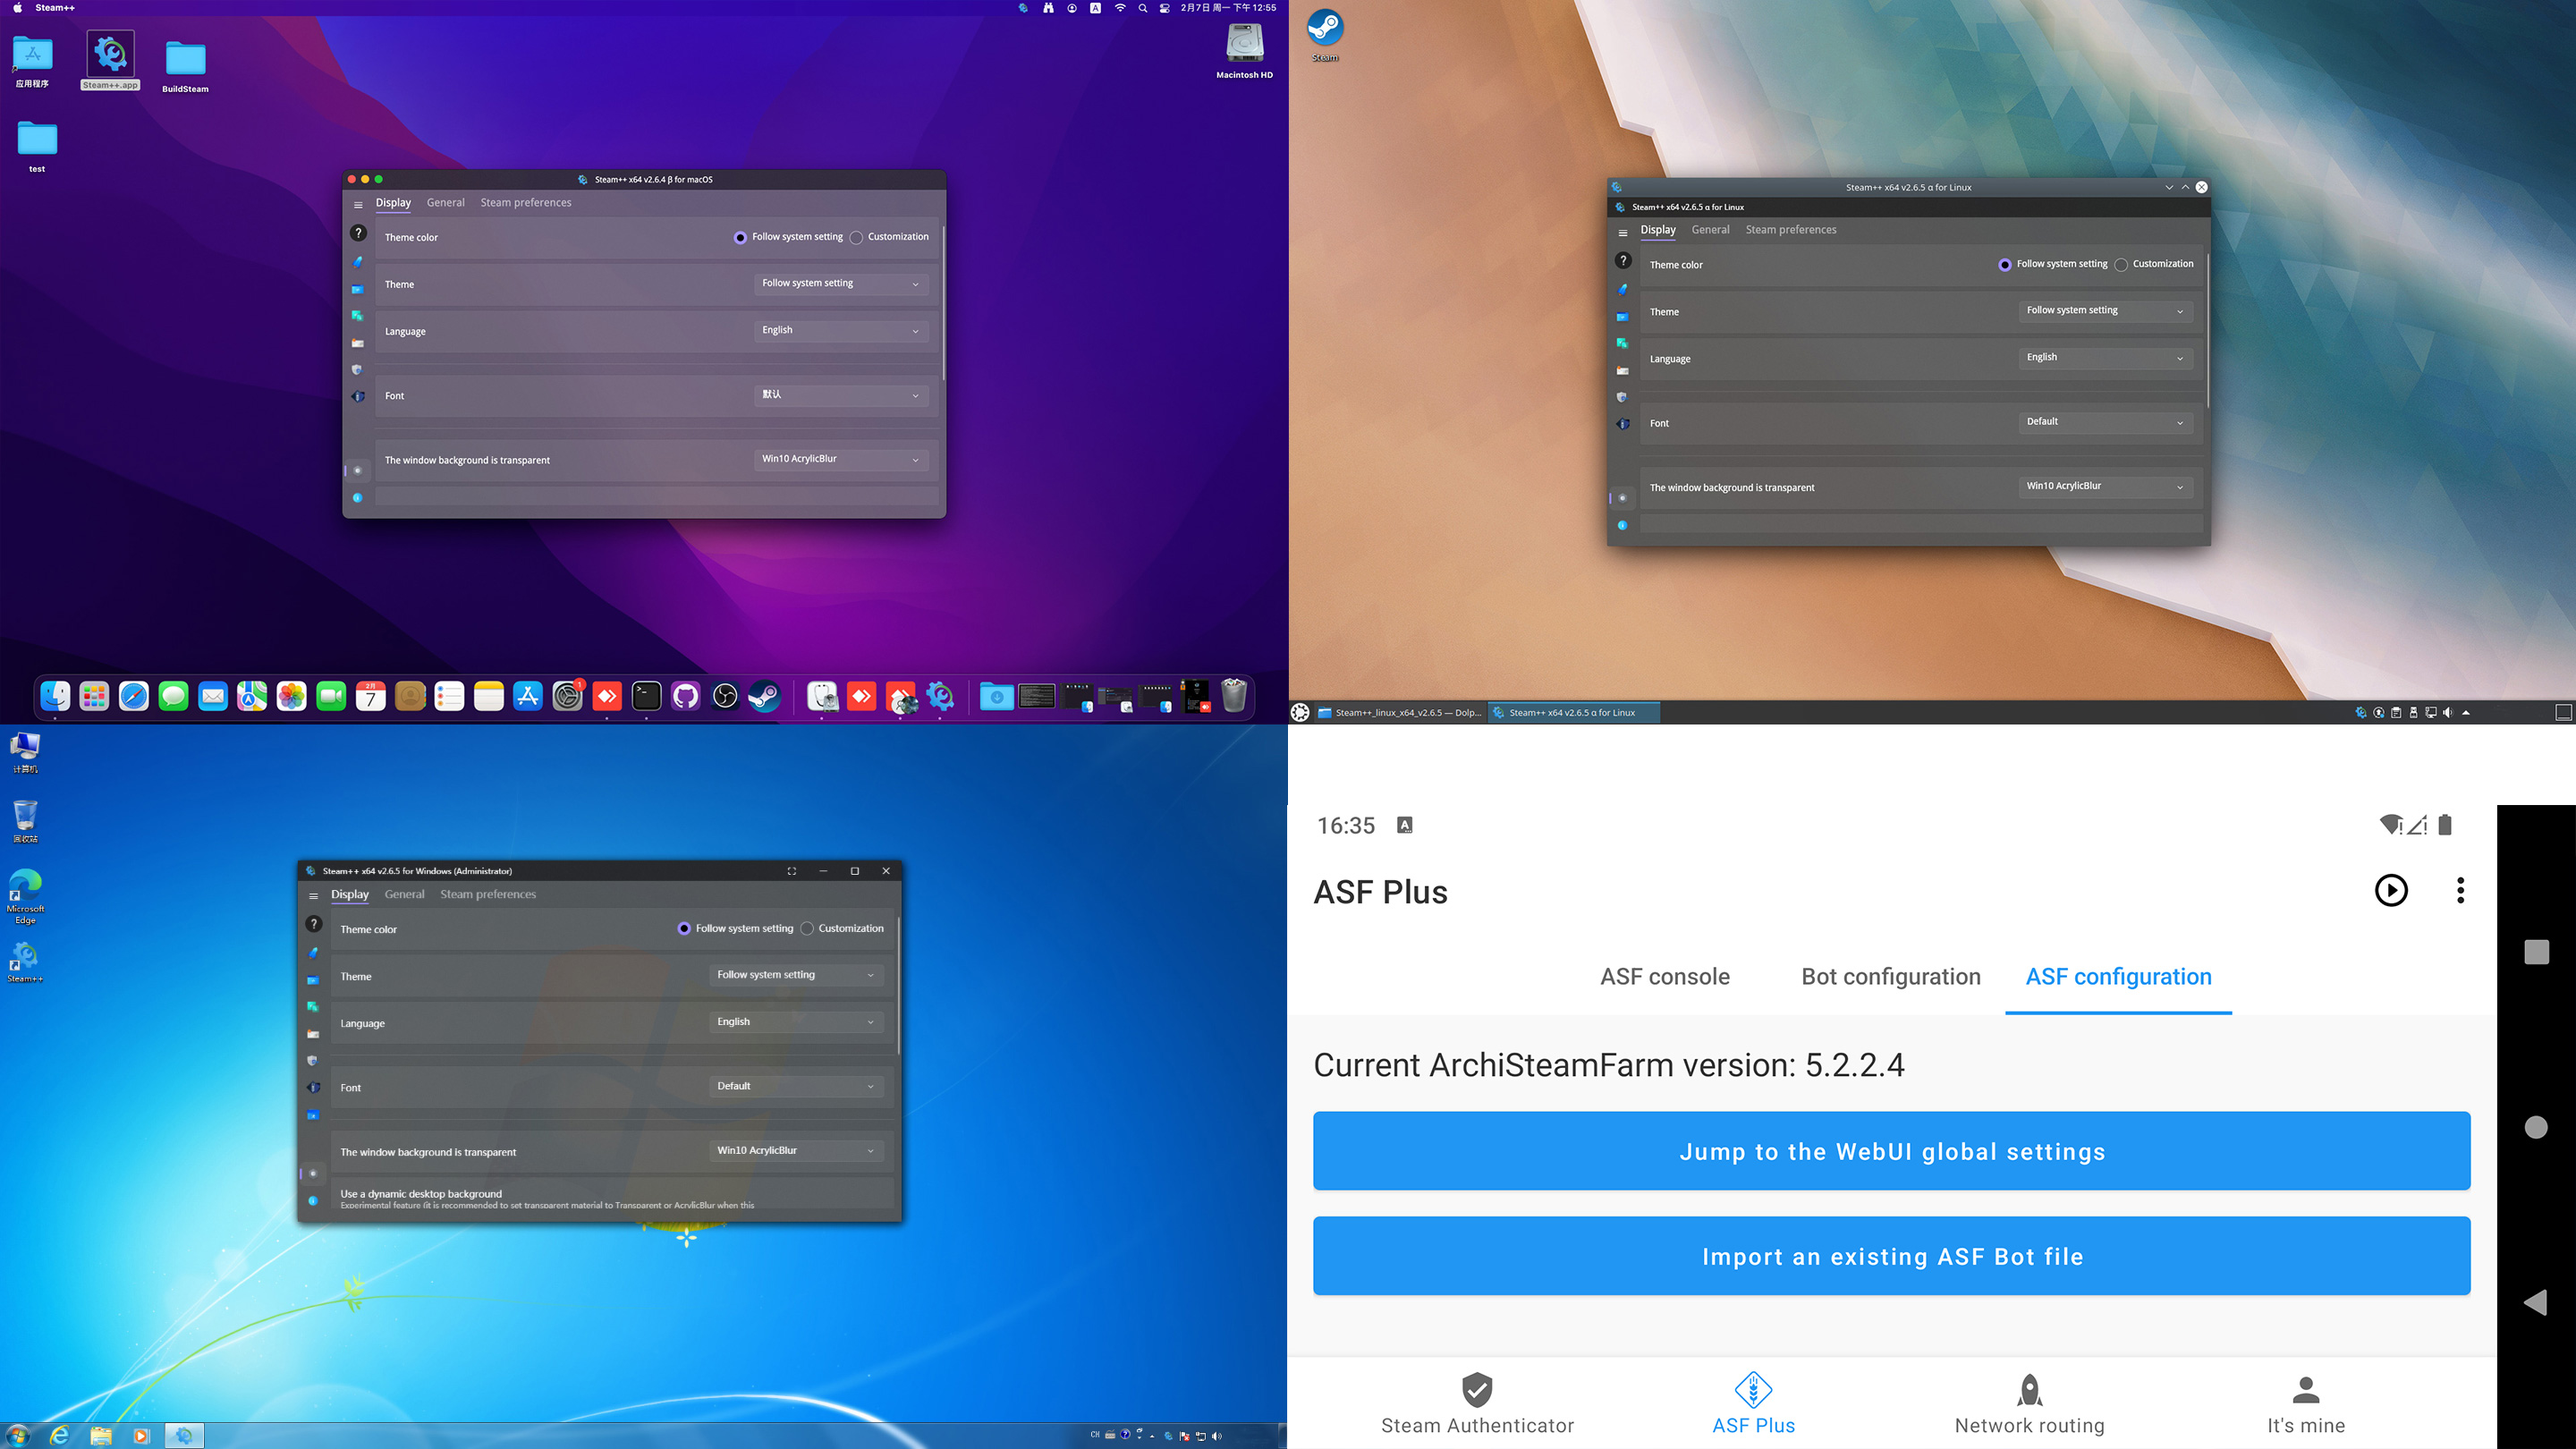
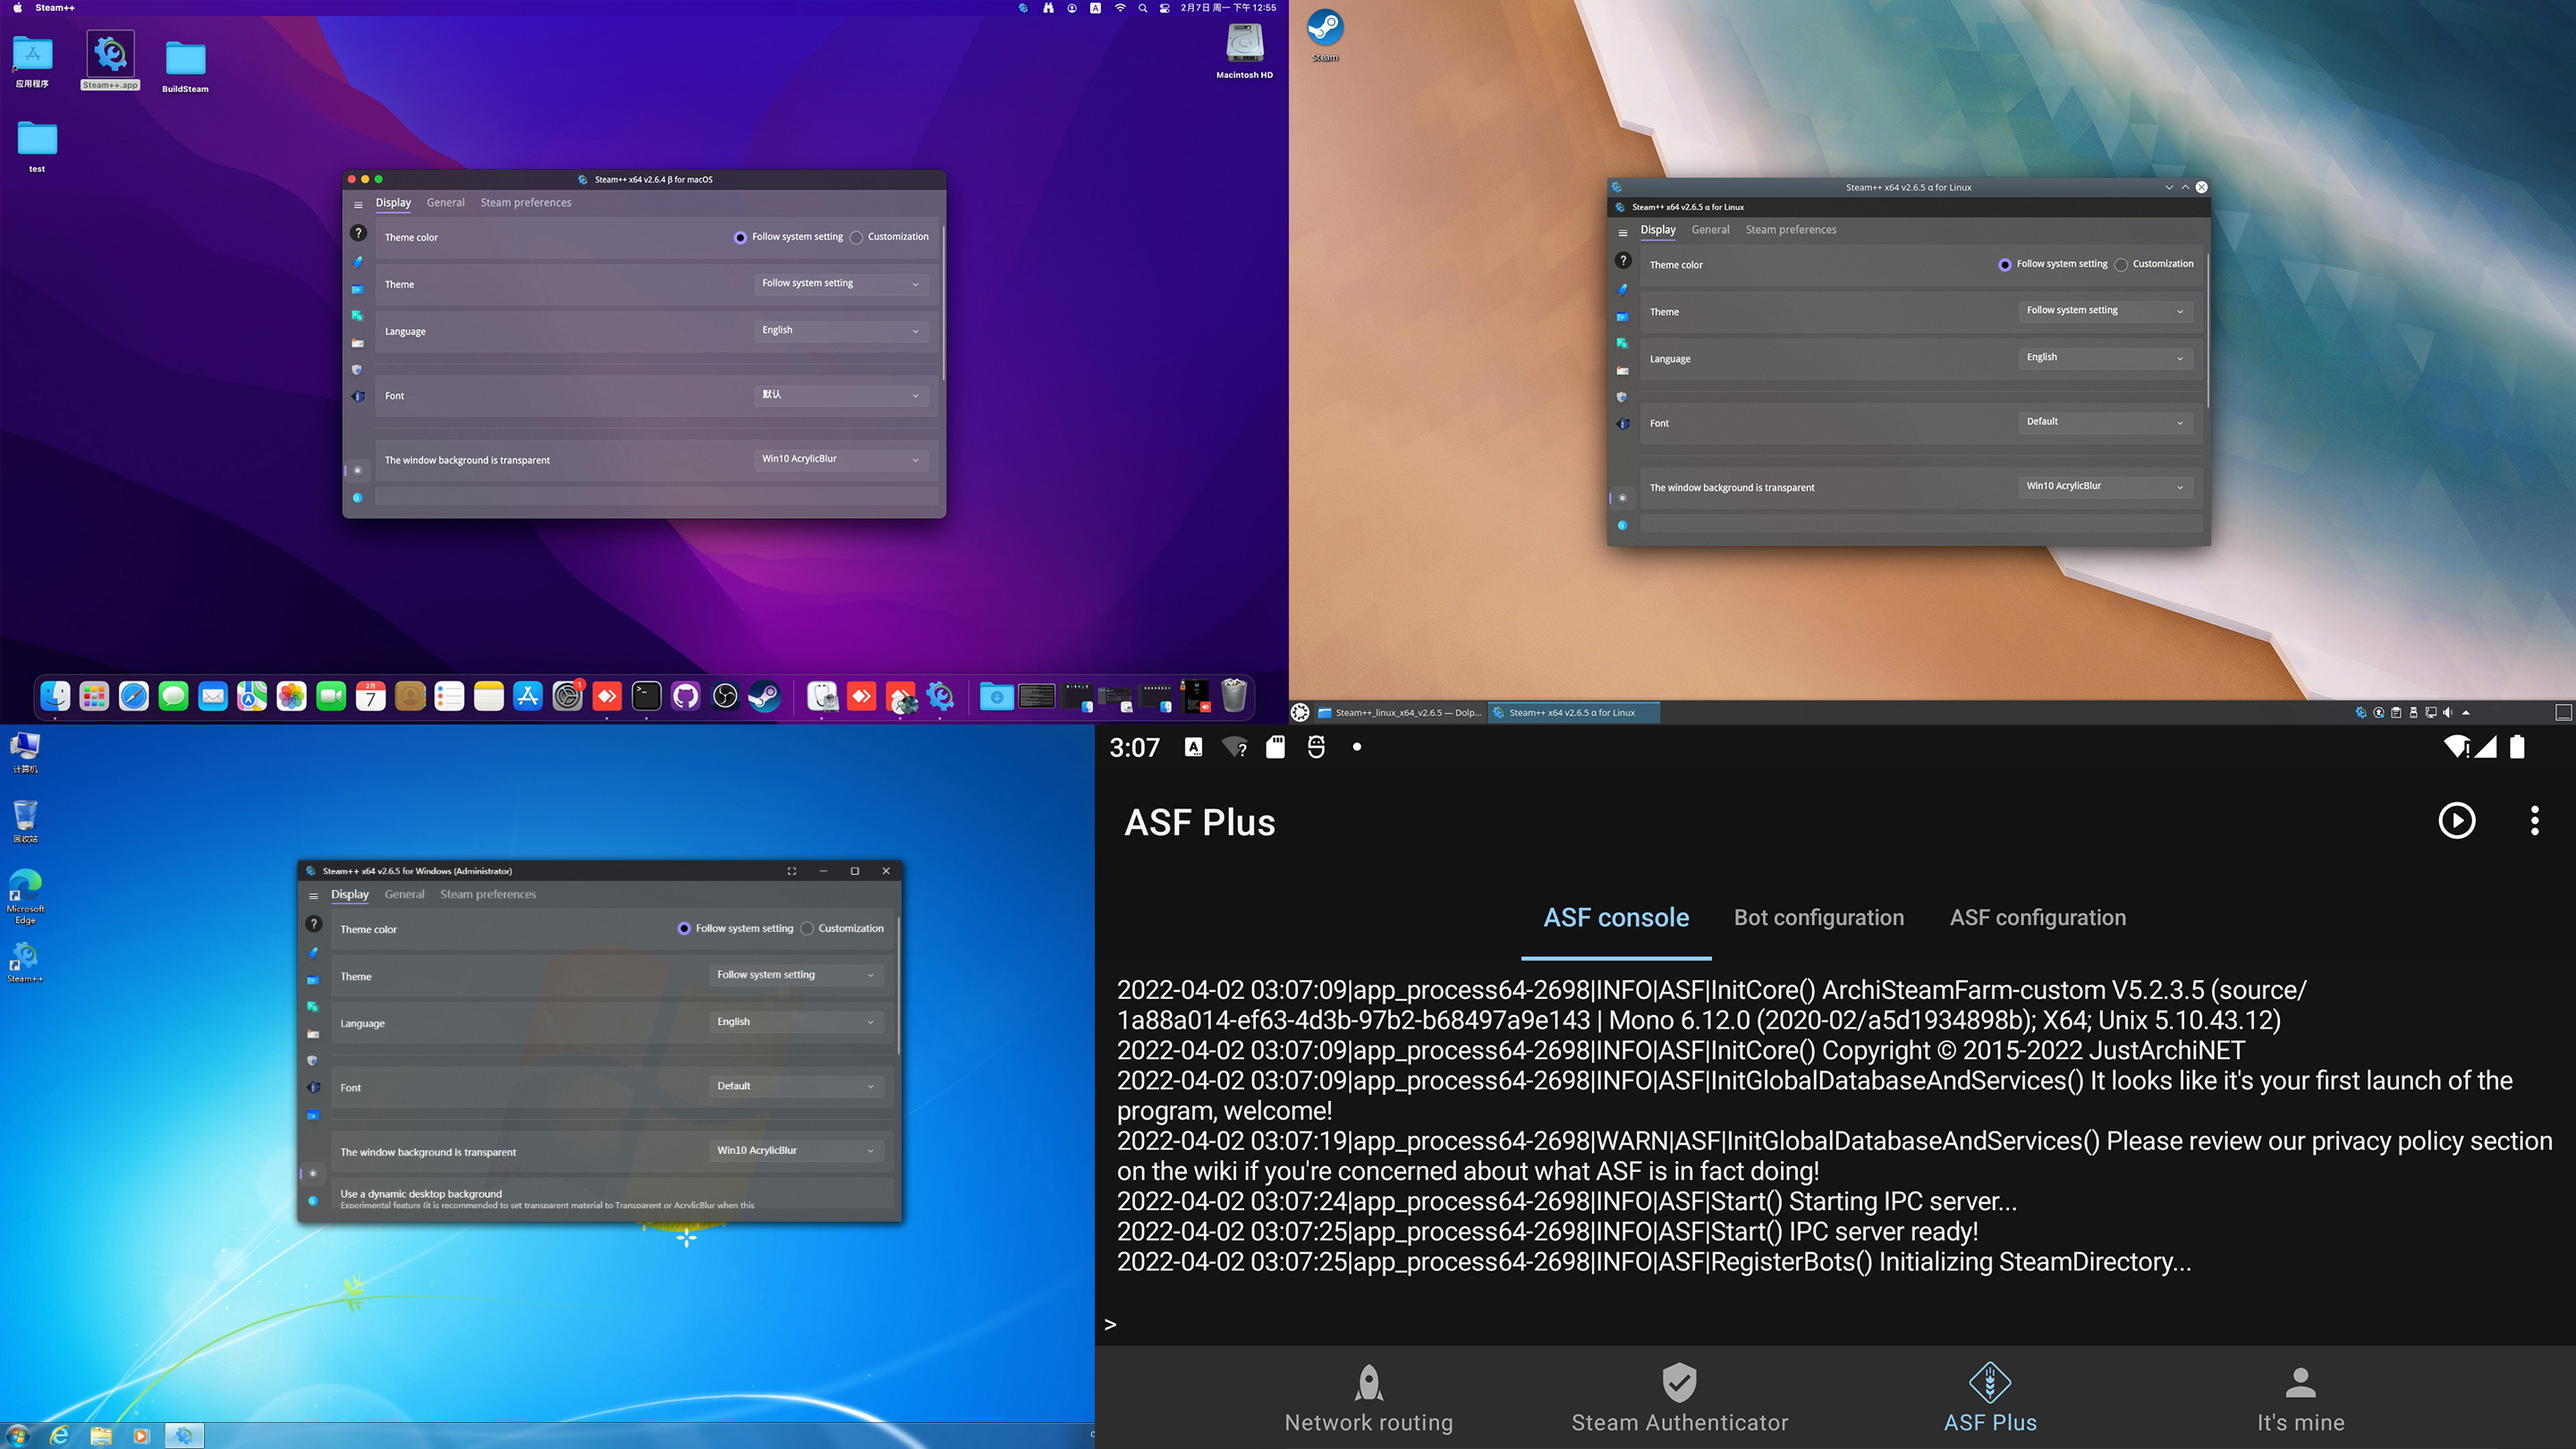
fix Android ThirdPartyLoginHelper.StartServer catch & update android screenshot & fix NotificationServiceImpl

Changed region(s): [[0.4062, 0.4938, 1.0, 1.0]]

diff --git a/src/ST.Client/Services/Implementation/NotificationServiceImpl.cs b/src/ST.Client/Services/Implementation/NotificationServiceImpl.cs
@@ -3,17 +3,20 @@ using System.Properties;
 using System.Text;
 using System.Windows;
 using static System.Application.Services.INotificationService;
+using System.Runtime.Versioning;
 
 namespace System.Application.Services.Implementation
 {
     /// <inheritdoc cref="INotificationService"/>
     internal sealed class NotificationServiceImpl : INotificationService
     {
-        readonly NotifyIcon notifyIcon;
+        [SupportedOSPlatform("windows")]
+        [SupportedOSPlatform("macos")]
+        [SupportedOSPlatform("linux")]
+        static NotifyIcon? NotifyIcon => DI.Get_Nullable<NotifyIcon>();
 
-        public NotificationServiceImpl(NotifyIcon notifyIcon)
+        public NotificationServiceImpl()
         {
-            this.notifyIcon = notifyIcon;
         }
 
         bool INotificationService<NotificationType, Entrance, INotificationService>.AreNotificationsEnabled() => true;
@@ -22,7 +25,9 @@ namespace System.Application.Services.Implementation
         {
             if (OperatingSystem2.IsWindows && NotifyIconHelper.IsInitialized)
             {
-                notifyIcon.HideBalloonTip();
+#pragma warning disable CA1416 // 验证平台兼容性
+                NotifyIcon?.HideBalloonTip();
+#pragma warning restore CA1416 // 验证平台兼容性
             }
         }
 
@@ -30,7 +35,9 @@ namespace System.Application.Services.Implementation
         {
             if (OperatingSystem2.IsWindows && NotifyIconHelper.IsInitialized)
             {
-                notifyIcon.HideBalloonTip();
+#pragma warning disable CA1416 // 验证平台兼容性
+                NotifyIcon?.HideBalloonTip();
+#pragma warning restore CA1416 // 验证平台兼容性
             }
         }
 
@@ -40,7 +47,9 @@ namespace System.Application.Services.Implementation
             {
                 title ??= ThisAssembly.AssemblyTrademark;
                 // 调用托盘显示通知
-                notifyIcon.ShowBalloonTip(title, text, ToolTipIcon.None);
+#pragma warning disable CA1416 // 验证平台兼容性
+                NotifyIcon?.ShowBalloonTip(title, text, ToolTipIcon.None);
+#pragma warning restore CA1416 // 验证平台兼容性
             }
         }
 

diff --git a/src/ST.Client/UI/IApplication.Desktop.cs b/src/ST.Client/UI/IApplication.Desktop.cs
@@ -1,4 +1,3 @@
-using System;
 using System.Application.Models;
 using System.Application.Mvvm;
 using System.Collections.Generic;
@@ -36,14 +35,20 @@ namespace System.Application.UI
         /// </summary>
         IReadOnlyDictionary<string, ICommand> NotifyIconMenus { get; }
 
-        new CompositeDisposable CompositeDisposable { get; }
-
-        ICollection<IDisposable> IDisposableHolder.CompositeDisposable => CompositeDisposable;
-
         /// <summary>
         /// 是否有活动窗口
         /// </summary>
         /// <returns></returns>
         bool HasActiveWindow();
     }
+
+#if NET6_0_OR_GREATER
+    // 接口默认实现在 Xamarin.Android 上不可用，将引发 Java.Lang.AbstractMethodError: Exception of type 'Java.Lang.AbstractMethodError' was thrown.
+    partial interface IApplication
+    {
+        new CompositeDisposable CompositeDisposable { get; }
+
+        ICollection<IDisposable> IDisposableHolder.CompositeDisposable => CompositeDisposable;
+    }
+#endif
 }

diff --git a/src/ST.Client.Android/UI/MainApplication.cs b/src/ST.Client.Android/UI/MainApplication.cs
@@ -2,6 +2,7 @@ using Android.App;
 using Android.Runtime;
 using System.Application.UI.Resx;
 using System.Application.UI.ViewModels;
+using System.Application.Mvvm;
 using System.Diagnostics;
 using System.Text;
 using Xamarin.Essentials;
@@ -250,7 +251,7 @@ namespace System.Application.UI
         const AppTheme _DefaultActualTheme = AppTheme.Light;
         AppTheme IApplication.DefaultActualTheme => _DefaultActualTheme;
 
-        public bool IsRuntimeSwitchXFAppTheme { get; set; } = true;
+        //public bool IsRuntimeSwitchXFAppTheme { get; set; } = true;
 
         #region AppTheme
 
@@ -340,7 +341,7 @@ namespace System.Application.UI
 
         readonly CompositeDisposable compositeDisposable = new();
 
-        CompositeDisposable IApplication.CompositeDisposable => compositeDisposable;
+        ICollection<IDisposable> IDisposableHolder.CompositeDisposable => compositeDisposable;
 
         #endregion
 
